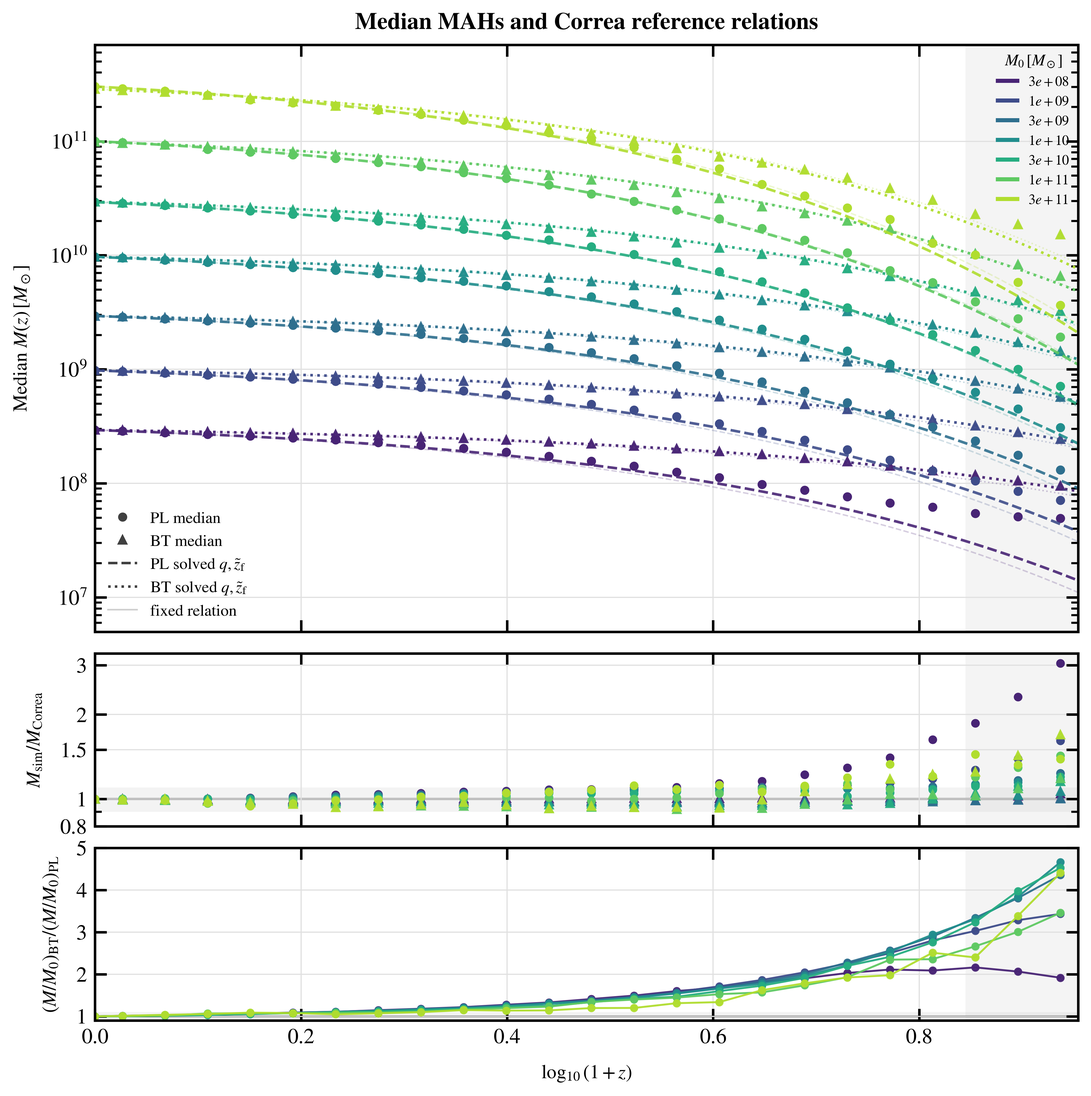
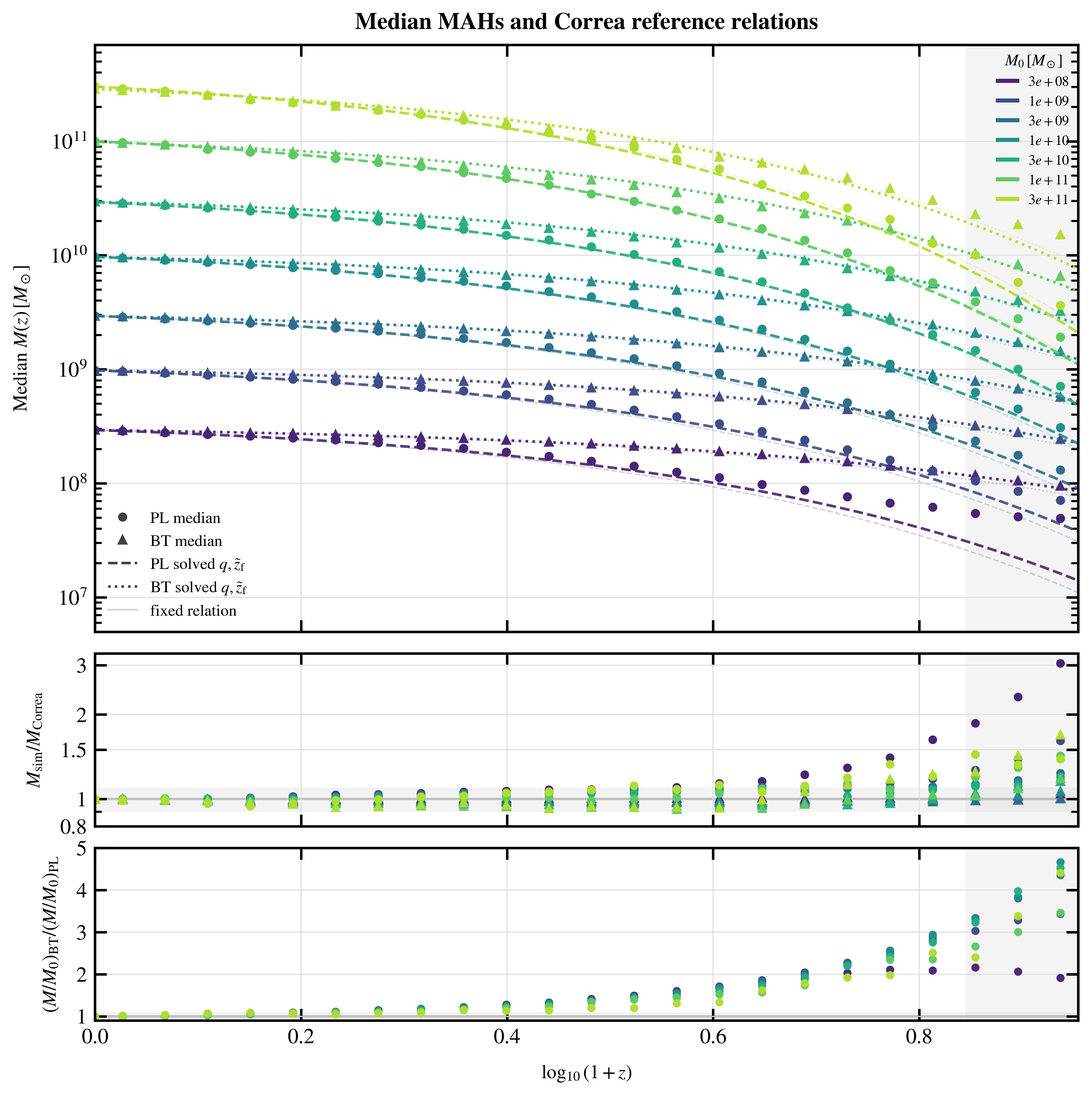
Refine manuscript summaries and MAH ratio display

Changed region(s): [[0.3109, 0.7799, 0.9637, 0.9359]]

diff --git a/main.tex b/main.tex
@@ -116,7 +116,7 @@
 \section{Introduction\label{intro}}
 \currentrevisionblue{The standard \(\Lambda\)CDM model assumes cold dark matter, a cosmological constant, and a nearly scale-invariant primordial power spectrum, \(P_{\rm prim}(k)\propto k^{n_s}\) with \(n_s\simeq0.965\). This model agrees with measurements of the cosmic microwave background (CMB) \citep{Planck20CMB}, galaxy clustering \citep{Blanton17SDSSsurvey}, and the Lyman-\(\alpha\) forest \citep{Chabanier19LyalphaPS,Abolfathi18DR14}. However, the primordial power spectrum is less tightly constrained on scales much smaller than a megaparsec. Probes of these scales include CMB spectral distortions \citep{Chluba2012CMBSmallscalepowerspectrum}, satellite statistics and density profiles \citep{Wu25BT,Dekker25DwarfPPS,Esteban2024lumpyDM,Nadler2025enhanced}, strong-lensing flux-ratio and substructure measurements \citep{Gilman22SubgalacticPPS}, high-redshift galaxy counts \citep{Parashari23JWSTPPS,Hira24bluetilt}, ultra-compact minihalos \citep{Bringmann2026ultracompactminihaloonprimordialpowerspectrum}, and future 21-cm observations \citep{Munoz20SmallScale21cm}.}
 
-\currentrevisionblue{Previous studies have simulated enhanced small-scale power in high-redshift cosmological volumes \citep{Hirano15BlueTiltedPPS,Inman23EnhancedSmallScaledarkage} and in zoom-in models of Milky Way--mass environments \citep{Wu25BT,Nadler2025enhanced}. Few studies have measured halo abundance, assembly histories, internal structure, and nonlinear matter power together in matched cosmological-volume simulations.}
+\currentrevisionblue{Previous studies have examined enhanced small-scale power using high-redshift cosmological simulations \citep{Hirano15BlueTiltedPPS,Inman23EnhancedSmallScaledarkage} and zoom-in simulations of Milky Way--mass environments \citep{Wu25BT,Nadler2025enhanced}. A systematic comparison of how different primordial spectra affect nonlinear evolution within the same cosmological volume remains limited.}
 
 
 %These probes do not by themselves select a blue-tilted model, but they motivate controlled tests of how small-scale primordial power affects nonlinear structure.
@@ -136,13 +136,10 @@ We do not model these mechanisms explicitly. Instead, we use broken-power-law bl
 
 \Tk{also emphasise that we compare with existing analytic models.}
 
-The rest of this paper is organized as follows. Sec.~\ref{sec:theory} defines the PL and BT primordial power-spectrum models and their corresponding input linear matter power spectra at \(z_i=200\). Sec.~\ref{sec:numerical} describes the initial conditions, simulations, halo catalogs, and analysis choices. Sec.~\ref{sec:results} presents the halo mass function, halo assembly, concentration, and nonlinear matter-power results. Sec.~\ref{sec:discussion} discusses the physical interpretation, numerical limitations, and links to observations. Sec.~\ref{sec:conclusion} summarizes the main quantitative findings.
-
-
 \section{Theoretical Overview}
 \label{sec:theory}
 
-\currentrevisionblue{This section defines the PL and BT primordial power-spectrum templates and the input linear matter spectra used to generate the initial conditions. It also relates the BT pivot wavenumbers to characteristic halo masses. Throughout the paper, ``primordial power spectrum'' refers to a PL or BT template such as Eq.~\eqref{eq:bt_input_power}. ``Input linear matter power spectrum'' refers to the spectrum at \(z_i=200\) after applying the transfer function and the common normalization.}
+\currentrevisionblue{We define the PL and BT primordial power-spectrum templates and the input linear matter spectra used to generate the initial conditions. We also relate the BT pivot wavenumbers to characteristic halo masses. Throughout the paper, ``primordial power spectrum'' refers to a PL or BT template such as Eq.~\eqref{eq:bt_input_power}. ``Input linear matter power spectrum'' refers to the spectrum at \(z_i=200\) after applying the transfer function and the common normalization.}
 
 \subsection{Power-Spectrum Models and Linear Matter Power}
 \label{subsec:power_models}
@@ -188,8 +185,6 @@ where \(T(k)\) is the linear transfer function and \(D(z)\) is the linear growth
 \section{Numerical Methods}
 \label{sec:numerical}
 
-This section describes the numerical setup, including the generation of matched PL and BT initial conditions, halo identification, halo-property measurements, and the numerical ranges used for quantitative comparisons.
-
 \subsection{Cosmological Parameters}
 \label{subsec:cosmo_params}
 
@@ -234,10 +229,10 @@ We evolve the initial conditions with the cosmological $N$-body code \small{SWIF
 
 \currentrevisionblue{Table~\ref{tab:simulation_parameters} defines the simulation set. The main PL and BT runs use the same box size, particle number, mass resolution, force softening, initial random phases, and \textsc{SWIFT} settings. They differ only in the input linear matter spectrum generated by MonofonIC.}
 
-\revisionblue{Unless stated otherwise, the main results use three matched $25\,h^{-1}{\rm Mpc}$, $1024^3$ runs: PL, \BTKPone{}, and \BTKPten{}. PL denotes the standard power-law primordial spectrum. \BTKPone{} has $k_p=1\,h\,{\rm Mpc}^{-1}$ and $m_s=1.5$, while \BTKPten{} has $k_p=10\,h\,{\rm Mpc}^{-1}$ and the same $m_s$. The $256\,h^{-1}{\rm Mpc}$ PL and BT runs are used only for the nonlinear matter power spectrum. The smaller BT boxes and the additional PL runs provide numerical tests. Appendix~\ref{app:trusted_ranges} and Table~\ref{tab:trusted_ranges} list the ranges used for quantitative statements.}
+\revisionblue{Unless stated otherwise, the main results use three $25\,h^{-1}{\rm Mpc}$, $1024^3$ runs initialized with the same random phases: PL, \BTKPone{}, and \BTKPten{}. PL denotes the standard power-law primordial spectrum. \BTKPone{} has $k_p=1\,h\,{\rm Mpc}^{-1}$ and $m_s=1.5$, while \BTKPten{} has $k_p=10\,h\,{\rm Mpc}^{-1}$ and the same $m_s$. The $256\,h^{-1}{\rm Mpc}$ PL and BT runs are used only for the nonlinear matter power spectrum. The smaller BT boxes and the additional PL runs provide numerical tests. Appendix~\ref{app:trusted_ranges} and Table~\ref{tab:trusted_ranges} list the ranges used for quantitative statements.}
 
 \begin{table*}[t]
-\caption{\currentrevisionblue{Combined primordial-power model and cosmological \(N\)-body simulation parameters. The \(k_p\) and \(m_s\) columns specify the PL/BT primordial power-spectrum models (see \S\ref{sec:theory}); \(N_{\rm p}\) is the particle number; \(L_{\rm box}\) is the simulation box size; \(m_{\rm DM}\) is the dark matter particle mass; and \(\epsilon_{\rm Pl}\) is the Plummer-equivalent softening length in physical kpc at \(z=0\). The main comparison uses the matched PL, \BTKPone{}, and \BTKPten{} \(25\,h^{-1}{\rm Mpc}\), \(1024^3\) runs. Additional BT and PL runs provide numerical tests. The Set column separates the main science runs, BT box-size tests, low-resolution tests, and volume tests. The Appendix analysis column identifies runs whose simulation data are used directly in the FOF mass-function resolution and volume check (HMF res.) or in the alternative concentration-prescription comparisons (Conc. refs.).}}
+\caption{\currentrevisionblue{Combined primordial-power model and cosmological \(N\)-body simulation parameters. The \(k_p\) and \(m_s\) columns specify the PL/BT primordial power-spectrum models (see \S\ref{sec:theory}); \(N_{\rm p}\) is the particle number; \(L_{\rm box}\) is the simulation box size; \(m_{\rm DM}\) is the dark matter particle mass; and \(\epsilon_{\rm Pl}\) is the Plummer-equivalent softening length in physical kpc at \(z=0\). The main comparison uses the PL, \BTKPone{}, and \BTKPten{} \(25\,h^{-1}{\rm Mpc}\), \(1024^3\) runs initialized with the same random phases. Additional BT and PL runs provide numerical tests. The Set column separates the main science runs, BT box-size tests, low-resolution tests, and volume tests. The Appendix analysis column identifies runs whose simulation data are used directly in the FOF mass-function resolution and volume check (HMF res.) or in the alternative concentration-prescription comparisons (Conc. refs.).}}
 \label{tab:simulation_parameters}
 \label{tab:Params_all_models}
 \centering
@@ -301,8 +296,6 @@ Volume & PL-256-512 & -- & -- & \(512^3\) & 256 & \(1.09\times 10^{10}\) & 14.85
 \section{Results}
 \label{sec:results}
 
-\revisionblue{We first show the projected density fields to illustrate the spatial differences among the models, and then quantify changes in halo abundance, assembly time, internal structure, and the nonlinear matter power spectrum.}
-
 \subsection{\texorpdfstring{Projection}{Projection}}
 \begin{figure*}[t]
     \centering
@@ -313,7 +306,7 @@ Volume & PL-256-512 & -- & -- & \(512^3\) & 256 & \(1.09\times 10^{10}\) & 14.85
 
 
 
-\currentrevisionblue{At \(z=8.52\), both BT models show more small-scale structure than PL, with the strongest contrast in \BTKPone{}. The visual differences weaken toward \(z=0\). The following sections quantify these changes in halo abundance, assembly histories, internal structure, and the nonlinear matter power spectrum.}
+\currentrevisionblue{At \(z=8.52\), both BT models show more small-scale structure than PL, with the strongest contrast in \BTKPone{}. The visual differences weaken toward \(z=0\).}
 
 \Tk{Need to say the effect is biggest at higher redshift too. Need to say \BTKPone{} is the clearest enhancement because its small-scale power spectrum is strongest.}
 
@@ -493,7 +486,7 @@ Fig.~\ref{fig:power_spectra_ratio_z0} shows BT/PL ratios for the \(k_p=1\) and \
 \begin{figure*}[t]
     \centering
     \includegraphics[width=\textwidth]{power-spectrum.png}
-    \caption{Nonlinear matter power spectra and matched BT/PL ratios at representative redshifts. The upper panels show PL and BT spectra for the \(k_p=1\) and \(k_p=10\), \(m_s=1.5\) variants in the matched \(25\) and \(256\,h^{-1}{\rm Mpc}\) boxes, together with the corresponding HMcode2020 nonlinear theory curves computed with \texttt{pyhmcode} for orientation. The theory curves use the same PL or BT input linear spectra described in the text and are not fitted to the simulation measurements. Middle panels show the direct simulation ratios BT/PL for each matched box and \(k_p\), plus the corresponding BT-theory/PL-theory ratios. The two bottom rows show \(P_{\rm sim}/P_{\rm HMcode2020}\) separately for the \(25\) and \(256\,h^{-1}{\rm Mpc}\) matched boxes. \revisionblue{Filled and open simulation symbols identify the \(25\) and \(256\,h^{-1}{\rm Mpc}\) boxes, respectively. Symbols outside each box's adopted range are faded and open. We use \(4k_{\rm f}\le k\le k_{\rm Ny}\), where \(k_{\rm f}=2\pi/L_{\rm box}\). The resulting intervals are approximately \(1.0\le k/(h\,{\rm Mpc}^{-1})\le129\) for the 25 box and \(0.10\le k/(h\,{\rm Mpc}^{-1})\le12.6\) for the 256 box. Dashed and dotted vertical pairs mark these limits for the 25 and 256 boxes, respectively. In the separate bottom rows, gray regions mark scales outside the corresponding interval. Because these ratios depend on the estimator and on the treatment of the highest-\(k\) modes, they are comparisons with HMcode2020 rather than a new nonlinear-power fit.} In the fiducial $k_p=1$, $25\,h^{-1}{\rm Mpc}$ box at $z=0$, BT/PL reaches $1.17$ at $k=20\,h\,{\rm Mpc}^{-1}$ and $1.34$ at $k=40\,h\,{\rm Mpc}^{-1}$. The shaded band around unity in the ratio panels marks a \(\pm10\%\) reference interval.}
+    \caption{Nonlinear matter power spectra and BT/PL ratios at representative redshifts. The upper panels show PL and BT spectra for the \(k_p=1\) and \(k_p=10\), \(m_s=1.5\) variants in the \(25\) and \(256\,h^{-1}{\rm Mpc}\) boxes, together with the corresponding HMcode2020 nonlinear theory curves computed with \texttt{pyhmcode} for orientation. For each box size, the PL and BT simulations use the same initial random phases. The theory curves use the same PL or BT input linear spectra described in the text and are not fitted to the simulation measurements. Middle panels show the direct simulation ratios BT/PL for each box and \(k_p\), plus the corresponding BT-theory/PL-theory ratios. The two bottom rows show \(P_{\rm sim}/P_{\rm HMcode2020}\) separately for the \(25\) and \(256\,h^{-1}{\rm Mpc}\) boxes. \revisionblue{Filled and open simulation symbols identify the \(25\) and \(256\,h^{-1}{\rm Mpc}\) boxes, respectively. Symbols outside each box's adopted range are faded and open. We use \(4k_{\rm f}\le k\le k_{\rm Ny}\), where \(k_{\rm f}=2\pi/L_{\rm box}\). The resulting intervals are approximately \(1.0\le k/(h\,{\rm Mpc}^{-1})\le129\) for the 25 box and \(0.10\le k/(h\,{\rm Mpc}^{-1})\le12.6\) for the 256 box. Dashed and dotted vertical pairs mark these limits for the 25 and 256 boxes, respectively. In the separate bottom rows, gray regions mark scales outside the corresponding interval. Because these ratios depend on the estimator and on the treatment of the highest-\(k\) modes, they are comparisons with HMcode2020 rather than a new nonlinear-power fit.} In the fiducial $k_p=1$, $25\,h^{-1}{\rm Mpc}$ box at $z=0$, BT/PL reaches $1.17$ at $k=20\,h\,{\rm Mpc}^{-1}$ and $1.34$ at $k=40\,h\,{\rm Mpc}^{-1}$. The shaded band around unity in the ratio panels marks a \(\pm10\%\) reference interval.}
     \Tk{If the simulation data is outside of the reliable regime, we should indicate that. Maybe using empty symbol? There should be a box-size reliable limit too. For the small box, the low k data is not reliable.}
     \label{fig:power_spectra_ratio_z0}
 \end{figure*}
@@ -515,11 +508,11 @@ Fig.~\ref{fig:power_spectra_ratio_z0} shows BT/PL ratios for the \(k_p=1\) and \
 
 \Tk{Add Dekker and Esteban 2023 \cite{Esteban2024lumpyDM} here too. They studied halo concentration in enhanced power spectrum, but only with analytic model.}
 
-\currentrevisionblue{Some studies used analytic or semi-analytic models rather than new \(N\)-body simulations. \citet{Parashari23JWSTPPS} used the Sheth--Tormen halo mass function to estimate high-redshift stellar mass densities. \citet{Esteban2024lumpyDM} modeled how enhanced small-scale power changes dwarf-halo concentrations and satellite kinematics. \citet{Dekker25DwarfPPS} combined a concentration model with existing \(\Lambda\)CDM merger trees and a galaxy-formation model. In our work, halo abundance and structure are measured directly from \(N\)-body simulations. We use analytic models only to compare with the simulation results, evaluating them with each model's linear spectrum without refitting.}
+\currentrevisionblue{Some studies used analytic or semi-analytic models rather than new \(N\)-body simulations. \citet{Parashari23JWSTPPS} used the Sheth--Tormen halo mass function to estimate high-redshift stellar mass densities. \citet{Esteban2024lumpyDM} modeled how enhanced small-scale power changes dwarf-halo concentrations and satellite kinematics. \citet{Dekker25DwarfPPS} combined a concentration model with existing \(\Lambda\)CDM merger trees and a galaxy-formation model. We instead measure halo abundance and structure directly from \(N\)-body simulations. Published analytic models serve as external comparisons and are evaluated with each model's linear spectrum without refitting.}
 
-\currentrevisionblue{Other studies ran cosmological simulations with modified power spectra. \citet{Hira24bluetilt} studied halo abundance and high-redshift galaxies for blue-tilted spectra. \citet{Tkac24BumpyPPS} measured halo mass functions for spectra with a Gaussian bump. These studies focused mainly on halo abundance at high redshift. We follow halo evolution to \(z=0\) and also measure assembly histories, density profiles, concentrations, and the nonlinear matter power spectrum.}
+\currentrevisionblue{Other studies ran cosmological simulations with modified power spectra. \citet{Hira24bluetilt} studied halo abundance and high-redshift galaxies for blue-tilted spectra. \citet{Tkac24BumpyPPS} measured halo mass functions for spectra with a Gaussian bump. These studies focused mainly on halo abundance at high redshift. We follow halos to \(z=0\) to determine whether the early abundance changes persist in their assembly and internal structure.}
 
-\currentrevisionblue{\citet{Wu25BT} and \citet{Nadler2025enhanced} used zoom-in simulations of Milky Way--mass halos to study their subhalos. We instead study halos throughout the simulation volume. This allows us to compare halo abundance, assembly, internal structure, and the nonlinear matter power spectrum within the same simulation suite.}
+\currentrevisionblue{\citet{Wu25BT} and \citet{Nadler2025enhanced} used zoom-in simulations of Milky Way--mass halos to study their subhalos. We instead analyze halos throughout the simulation volume and measure population-level trends across halo mass.}
 
 %The isolated-halo profiles reported here can inform dwarf-galaxy and strong-lensing models \citep{Dekker25DwarfPPS,Gilman22SubgalacticPPS}, but they are not direct predictions for satellites or lensing subhalos. We therefore do not infer subhalo counts or radial distributions from the projected density fields. 
 
@@ -550,8 +543,6 @@ Fig.~\ref{fig:power_spectra_ratio_z0} shows BT/PL ratios for the \(k_p=1\) and \
 
 \currentrevisionblue{The simulations do not predict observables directly. Their halo mass functions can, however, be used as inputs to forward models of high-redshift galaxy populations. The Diemer \& Joyce (2019) concentration--mass relation evaluated for the BT spectra can inform models of low-mass halo structure for dwarf-galaxy dynamics and strong lensing \citep{Diemer2019,Dekker25DwarfPPS,Gilman22SubgalacticPPS}. The changes in early halo abundance and assembly can also be included in source-population and reionization models for 21-cm predictions \citep{Munoz20SmallScale21cm,deKruijf25DarkAges,Zhu26SKAPPS}. Each application requires additional baryonic and observational modeling.}
 
-\currentrevisionblue{The simulations identify the quantities most affected by enhanced small-scale power: low-mass halo abundance at high redshift, halo assembly time, low-mass halo concentrations and inner densities, and high-\(k\) matter clustering. These measurements can be tested in hydrodynamic simulations and propagated into galaxy-formation, reionization, and observational forward models.}
-
 % Response-summary table removed; its values are folded into the conclusion bullets.
 
 \section{Conclusions}
@@ -567,25 +558,25 @@ We used dark-matter-only cosmological \(N\)-body simulations to quantify how enh
 
 The main conclusions are as follows:
 \begin{enumerate}
-    \item \currentrevisionblue{Enhanced small-scale primordial power increases halo abundance most strongly at low mass and high redshift (Sec.~\ref{subsub:HMF}). In the FOF halo mass function, \BTKPone{}/PL reaches \(4.81\) and \(6.55\) at \(z=8.52\) in the two mass bins \(M_{\rm FOF}\simeq1.21\times10^9\) and \(1.21\times10^{10}\,M_\odot\). At \(z=0\), the corresponding ratios are \(1.42\) and \(1.47\). In the same bins, the \BTKPten{}/PL ratios are \(1.39\) and \(1.05\) at \(z=8.52\), and \(1.31\) and \(1.08\) at \(z=0\). The \(M_{200c}\) mass function shows the same qualitative trend (Fig.~\ref{fig:m200c_bocquet16_hmf}).}
+    \item \currentrevisionblue{Enhanced small-scale primordial power increases halo abundance most strongly at low mass and high redshift (Sec.~\ref{subsub:HMF}). At \(M_{\rm FOF}\simeq1.21\times10^9\,M_\odot\), the \BTKPone{}/PL ratio decreases from \(4.81\) at \(z=8.52\) to \(1.42\) at \(z=0\), while \BTKPten{} produces a smaller change. The \(M_{200c}\) mass function shows the same trend (Fig.~\ref{fig:m200c_bocquet16_hmf}).}
     
-    \revisionblue{In comparison with the Reed et al. (2007)\citep{Reed_2007} and Bocquet et al. (2016) \citep{Bocquet2016} models, the median simulation-to-model difference is below \(8\%\) at \(z=0\) and \(3.44\). The largest median difference is \(32\%\) at \(z=8.52\).}
+    \revisionblue{The median differences from the Reed et al. (2007) \citep{Reed_2007} and Bocquet et al. (2016) \citep{Bocquet2016} models are below \(8\%\) at \(z=0\) and \(3.44\), but reach \(32\%\) at \(z=8.52\).}
 
 
 %\Tk{Sounds odd} \revisionblue{In the half-mass measurement, each halo is followed across snapshots through its persistent \textsc{HBT-HERONS} \texttt{TrackId}}   
 
 % \revisionblue{The full histories give the same result: at fixed final FOF mass, the \BTKPone{} median progenitor is more massive than the PL median at earlier times (Sec.~\ref{subsub:MAH}; Fig.~\ref{fig:mass_assembly_history_correa})
-    \item \currentrevisionblue{Enhanced small-scale primordial power shifts halo assembly earlier (Sec.~\ref{subsub:HMR}). For halos with \(M_{z=0}\simeq1.25\times10^9\,M_\odot\), the half-mass redshift \(z_{1/2}\) changes from \(2.28\) in PL to \(4.24\) in \BTKPone{} and \(2.61\) in \BTKPten{}. The full mass-assembly histories show the same trend: at fixed final FOF mass, the median \BTKPone{} progenitor is more massive than the PL progenitor at earlier times (Sec.~\ref{subsub:MAH}).}
+    \item \currentrevisionblue{Enhanced small-scale primordial power shifts halo assembly earlier (Sec.~\ref{subsub:HMR}). For halos with \(M_{z=0}\simeq1.25\times10^9\,M_\odot\), \(z_{1/2}\) increases from \(2.28\) in PL to \(4.24\) in \BTKPone{} and \(2.61\) in \BTKPten{}. The full mass-assembly histories show the same ordering (Sec.~\ref{subsub:MAH}).}
 
-    \currentrevisionblue{Across \(10^9\le M_0/M_\odot\le10^{11}\), the Correa et al. (2015) curves \citep{Correa2015MAHI} differ from the median histories by at most \(25\%\) for PL and \(7\%\) for \BTKPone{} at \(z=1,2,4,\) and \(6\).}
+    \currentrevisionblue{Across \(10^9\le M_0/M_\odot\le10^{11}\), the Correa et al. (2015) curves \citep{Correa2015MAHI} differ from the median histories by at most \(25\%\) for PL and \(7\%\) for \BTKPone{} over the redshifts used for the comparison.}
     
-    \item \currentrevisionblue{The density profiles (Sec.~\ref{subsub:DensityProfile}; Fig.~\ref{fig:halo_density_analysis}) and the concentration--mass relation (Sec.~\ref{subsub:concentration}; Fig.~\ref{fig:concentration_comparison_d19}) both show higher central density and concentration in the blue-tilted runs. At \(z=0\), the median \(c_{200c}\) in the \(10^9\)--\(10^{9.5}\,M_\odot\) bin is higher than PL by factors of \(3.20\) for \BTKPone{} and \(1.35\) for \BTKPten{}.}
+    \item \currentrevisionblue{The blue-tilted runs have denser inner profiles and higher concentrations at low halo mass (Secs.~\ref{subsub:DensityProfile} and \ref{subsub:concentration}). At \(z=0\), the median \(c_{200c}\) in the \(10^9\)--\(10^{9.5}\,M_\odot\) bin is higher than PL by factors of \(3.20\) for \BTKPone{} and \(1.35\) for \BTKPten{}.}
 
     \Tk{We should use the Diemer model in the main paper.}
     \currentrevisionblue{In Sec.~\ref{subsub:concentration}, for the resolved mass bins, the Diemer \& Joyce (2019) relation agrees with the simulation medians within \(20\%\) for PL, \BTKPone{}, and \BTKPten{} at all four redshifts \citep{Diemer2019}.}
 
     
-    \item \currentrevisionblue{\BTKPone{} also increases the nonlinear matter power at high \(k\), although by less than its effect on the halo statistics. In the fiducial \(25\,h^{-1}{\rm Mpc}\) box (Sec.~\ref{subsub:PS}; Fig.~\ref{fig:power_spectra_ratio_z0}), \(P_{\rm BT}/P_{\rm PL}\) reaches \(1.17\) at \(k=20\,h\,{\rm Mpc}^{-1}\) and \(1.34\) at \(k=40\,h\,{\rm Mpc}^{-1}\). For \BTKPten{}, the ratios are \(1.00\) at both wavenumbers. Across the adopted \(k\) ranges in both boxes and at all four redshifts, HMcode2020 reproduces the BT/PL ratios with median fractional errors of \(0\%\)--\(9\%\). All individual errors are below \(15\%\). Its predictions for the absolute spectra are less accurate, with median fractional errors of \(5\%\)--\(32\%\).} \Tk{Say you have compared with HM2020 and state how good it is.}
+    \item \currentrevisionblue{\BTKPone{} increases the nonlinear matter power at high \(k\), but less strongly than it changes the halo statistics. At \(z=0\), \(P_{\rm BT}/P_{\rm PL}=1.34\) at \(k=40\,h\,{\rm Mpc}^{-1}\) in the fiducial box, while \BTKPten{} remains close to unity (Sec.~\ref{subsub:PS}; Fig.~\ref{fig:power_spectra_ratio_z0}). HMcode2020 reproduces the BT/PL ratios with individual fractional errors below \(15\%\), although its predictions for the absolute spectra are less accurate.} \Tk{Say you have compared with HM2020 and state how good it is.}
 \end{enumerate}
 
 \Tk{I think this paragraph can be merged into the previous bullet points. For example, the first bullet talks about halo abundance. We can say how good Reed et al. (2007) FOF and Bocquet et al. (2016) are the fit. Similarly for mass-concentration. Talk about Ishiyama et al. (2021) relation at the end}
@@ -642,7 +633,7 @@ TKC is supported by the `Improvement on Competitiveness in Hiring New Faculties'
 \tabcell{0.18\textwidth}{Median mass-assembly history} & \tabcell{0.17\textwidth}{\(M_{\rm FOF}(z=0)\), median \(M_{\rm FOF}(z)\)} & \tabcell{0.20\textwidth}{Quantitative use: \(M_0\ge10^9\,M_\odot\), \(z\le6\)} & \tabcell{0.36\textwidth}{\revisionblue{Halos are selected at \(z=0\) and followed through \texttt{TrackId}. Only finite positive detections enter each median. More than 90 per cent of each selected sample is detected over the quoted range.}} \\
 \tabcell{0.18\textwidth}{Direct radial halo density profiles} & \tabcell{0.17\textwidth}{Particle radial profiles in \(M_{200m}\) bins} & \tabcell{0.20\textwidth}{Plotted bins use \(10^{10}\)--\(10^{11.5}\,M_\odot\)} & \tabcell{0.36\textwidth}{\currentrevisionblue{Profiles are measured directly from simulation particles and compared with NFW profiles whose concentrations are set by the Diemer \& Joyce (2019) relation; the gray region marks radii that do not satisfy the plotted convergence criterion.}} \\
 \tabcell{0.18\textwidth}{Concentration--mass relation} & \tabcell{0.17\textwidth}{\(M_{200c}\), \(c_{200c}\)} & \tabcell{0.20\textwidth}{Plotted points require \(N_{\rm DM}\ge100\); quoted low-mass ratios use \(10^9\)--\(10^{9.5}\,M_\odot\)} & \tabcell{0.36\textwidth}{Concentrations must be finite and positive, with \(c_{200c}<500\); the quoted bin is near or above the \(\simeq500\)-particle scale.} \\
-\tabcell{0.18\textwidth}{Nonlinear matter power spectrum} & \tabcell{0.17\textwidth}{\(P(k)\), \(P_{\rm BT}/P_{\rm PL}\)} & \tabcell{0.20\textwidth}{Matched-box ratios only; \(1.0\lesssim k/(h\,{\rm Mpc}^{-1})\lesssim129\) for the 25 box and \(0.10\lesssim k/(h\,{\rm Mpc}^{-1})\lesssim12.6\) for the 256 box} & \tabcell{0.36\textwidth}{The low-\(k\) limit is \(4k_{\rm f}\), where \(k_{\rm f}=2\pi/L_{\rm box}\), and the high-\(k\) limit is the mesh Nyquist scale. Faded open points outside these ranges show trends only.} \\
+\tabcell{0.18\textwidth}{Nonlinear matter power spectrum} & \tabcell{0.17\textwidth}{\(P(k)\), \(P_{\rm BT}/P_{\rm PL}\)} & \tabcell{0.20\textwidth}{Ratios use only PL and BT runs initialized with the same random phases; \(1.0\lesssim k/(h\,{\rm Mpc}^{-1})\lesssim129\) for the 25 box and \(0.10\lesssim k/(h\,{\rm Mpc}^{-1})\lesssim12.6\) for the 256 box} & \tabcell{0.36\textwidth}{The low-\(k\) limit is \(4k_{\rm f}\), where \(k_{\rm f}=2\pi/L_{\rm box}\), and the high-\(k\) limit is the mesh Nyquist scale. Faded open points outside these ranges show trends only.} \\
 \bottomrule
 \end{tabular}
 \endgroup

diff --git a/public_data/scripts/plot_mass_assembly_history_correa.py b/public_data/scripts/plot_mass_assembly_history_correa.py
@@ -162,7 +162,7 @@ def make_figure(output: Path) -> None:
             bt_pl_x,
             bt_pl_ratio,
             color=color,
-            lw=0.85,
+            ls="none",
             marker="o",
             markersize=2.6,
             alpha=0.95,
